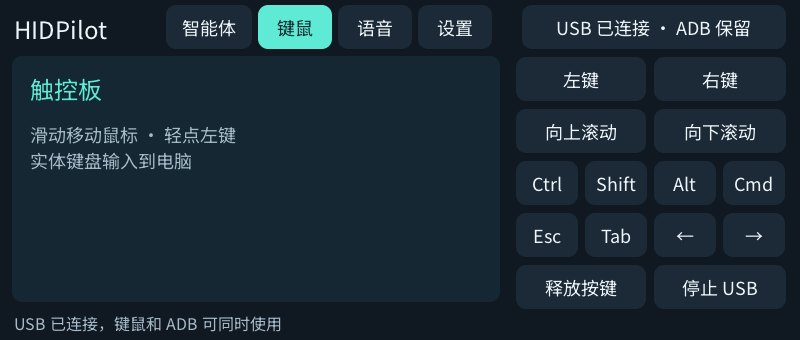
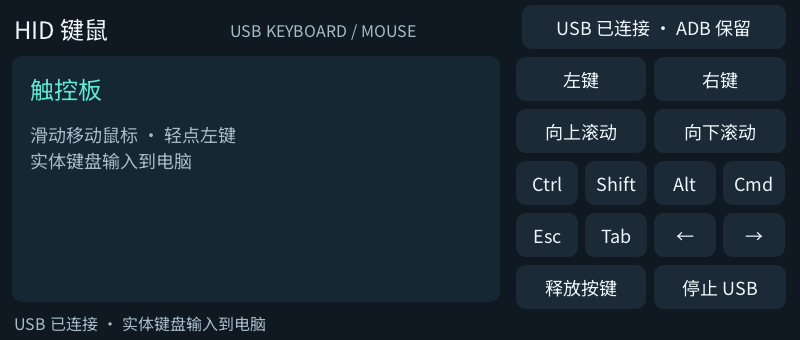
Document on-device HID and MoonPilot verification with screenshots

Changed region(s): [[0.2188, 0.0, 0.5938, 0.1471], [0.125, 0.9118, 0.375, 0.9706], [0.0625, 0.0588, 0.1562, 0.1176]]

diff --git a/docs/2026-09-27-moonpilot-qa.md b/docs/2026-09-27-moonpilot-qa.md
@@ -22,9 +22,19 @@
 ## 待实测和限制
 
 - 用户选择先开发，尚无 Sunshine 主机 IP。真实主机的 PIN 配对、串流、远程键鼠和“画面 → 模型 → 操作 → 新画面”闭环没有通过验收。
-- 新应用安装后、进一步进入 MoonPilot 前 USB 从主机列表消失；暂无法确认断线原因。随后完成了未配置设备的初始提示修正和端口错误提示，已重新编译，尚待补装。应用内截图、配置迁移、实际内存占用和 USB 新界面开关暂未实测。本次不把断线归因于休眠或程序崩溃。
-- 之前 HID 功能的完整主机输入证据见 [0.1.0 验证](2026-09-27-hidpilot-qa.md)；本次保留同一 USB 实现，但不将旧界面验收冒充新界面实测。
+- 初次安装后 USB 曾断开；用户唤醒后已完成下方补装与界面验证。恢复日志有系统 resume 记录，没有此次重新开机证据；仅凭这些记录不能确定最初断线的全部原因。
+- 之前 HID 功能的完整主机输入证据见 [0.1.0 验证](2026-09-27-hidpilot-qa.md)；本次补验新界面的 USB 开关、ADB 共存与退出恢复，未再次向电脑发送鼠标／文字。
 - 本轮未连接实际模型服务。原 LocalAI TTS 的 CUDA/NVML 服务故障没有在此次修复；接口 fixture 成功不代表服务器播报可用。
 - 词典仅接收视频，电脑保留声音。只支持手动填写 IP、现代 Sunshine / GameStream 和 H.264；没有发现服务、拖拽或多显示器布局。
 
-私有测试输出位于忽略的 `.build/moonpilot-qa/`；设备临时文件位于 `/storage/apps/data/moonpilot-qa/`，连接恢复后清理。临时菜单通过进程环境 `C1L_CONFIG` 指定，未改正常 `launcher/apps.txt`；退出测试 launcher 后常规入口即加载全量菜单。
+私有测试输出位于忽略的 `.build/moonpilot-qa/`；设备临时文件使用 `/storage/apps/data/moonpilot-qa/`，验收结束后清理。临时菜单通过进程环境 `C1L_CONFIG` 指定，未改正常 `launcher/apps.txt`；退出测试 launcher 后常规入口即加载全量菜单。
+
+## 连接恢复后的补验
+
+- 已补装首次启动提示、端口错误提示的最终代码。MoonPilot 主机页和未连接状态的操作页已真机截图；没有把静态页面当作串流验收。
+- 第一次打开后，MoonPilot 配置与旧 HIDPilot 私有设置逐字节相同，权限为 0600。随后分别在 URL、模型名字段输入再退格并保存，比较四组服务和播报设置，内容全部未变。旧文件保留，测试没有写入主机地址。
+- 用设备真实支持的 event0 字母／Shift 组合、event1 退格／返回事件检查主机字段：IP 输入 `hi`，转焦点到端口并退格，IP 保持不变；返回取消焦点，没有误删。清空测试内容、恢复默认端口 47989。
+- MoonPilot 空闲主机页 RSS 3144 kB，HID 已连接界面 RSS 1920 kB；前者没有摄像头或 HID 描述符。该数字不包含未来串流解码子进程和模型请求峰值。
+- HID GUI 点连接后，`ffs.hidpilot`、`ffs.adb`、`mtp.gs0` 共存，ADB shell 正常。按电源退出，状态回到 OFF，HID 接口移除，ADB / MTP 恢复，前台返回 launcher。
+
+最终激活 `/storage/apps/releases/20260927-131257-69e5e971`，设备 MoonPilot / HID 可执行文件 SHA-256 与最终本地包一致；退出两项专用测试菜单后，通过正常 `launcher/apps.txt` 重启，恢复 19 个本地入口（公开目录 18 项）。USB 状态 OFF，仅 ADB / MTP；20 分钟及息屏后 15 秒参数保持不变。设备测试目录已清理，证书和私有设置保留。

diff --git a/docs/screenshots/README.md b/docs/screenshots/README.md
@@ -38,4 +38,4 @@
 2026-09-27 新增 `hidpilot.png` 和 `hidpilot-voice.png`，通过设备 framebuffer 当前扫描页采集，旋转为 800×340。键鼠页为真实 HID 会话界面；对话页文字由真实 LocalAI 模型返回，输入由测试工具经设备输入事件送入。没有录制、拼接或伪造语音识别对话，也不表示当前 TTS 服务已验收。摄像头拍到私人环境的预览不上传公开仓库。
 
 
-2026-09-27 拆分 HIDPilot 后新增 `moonpilot-launcher.png`：已安装两个新应用后，从真实设备 framebuffer 采集专用的两项测试菜单，仅旋转为 800×340。它不是完整应用列表，也不是已连接 Sunshine 的截图。原 `hidpilot.png` / `hidpilot-voice.png` 保留为 0.1.0 历史界面；0.2.0 的 AI 和语音已迁入 MoonPilot。应用内新版截图因 USB 断开暂未采集。
+2026-09-27 拆分 HIDPilot 后新增 `moonpilot-launcher.png`：已安装两个新应用后，从真实设备 framebuffer 采集专用的两项测试菜单，仅旋转为 800×340。它不是完整应用列表，也不是已连接 Sunshine 的截图。连接恢复后，`hidpilot.png` 更新为 0.2.0 的真实 USB 已连接状态；新增 `moonpilot.png` 主机页、`moonpilot-desktop.png` 未连接时的操作页，均读取真机 framebuffer。`hidpilot-voice.png` 仅保留为 0.1.0 历史对话截图；AI 和语音现已迁入 MoonPilot。尚无真实 Sunshine 串流截图。

diff --git a/README.md b/README.md
@@ -89,7 +89,7 @@ apps/
   </tr>
   <tr>
     <td><strong>HIDPilot 键鼠</strong><br><a href="docs/screenshots/hidpilot.png"><img src="docs/screenshots/hidpilot.png" alt="HIDPilot 真机触控板、实体键盘修饰键和 USB 状态" width="400"></a><br>USB HID 与 ADB 共存；<a href="hidpilot/README.md">使用说明</a>。</td>
-    <td><strong>MoonPilot AI</strong><br><a href="docs/screenshots/moonpilot-launcher.png"><img src="docs/screenshots/moonpilot-launcher.png" alt="真机专用测试菜单中的 HID 键鼠和 MoonPilot 两个独立入口" width="400"></a><br>两个独立入口的真机测试菜单；真实 Sunshine 串流待接入验证。</td>
+    <td><strong>MoonPilot AI</strong><br><a href="docs/screenshots/moonpilot.png"><img src="docs/screenshots/moonpilot.png" alt="MoonPilot 真机 Sunshine 主机配置界面" width="400"></a><br>主机设置、PIN 配对和模型接口；真实 Sunshine 串流待接入验证。</td>
   </tr>
 </table>
 

diff --git a/moonpilot/README.md b/moonpilot/README.md
@@ -4,7 +4,9 @@ C1 Max 上基于 Moonlight / Sunshine 的远程桌面智能体。通过网络接
 
 **当前为开发预览版**：配对协议测试、MIPS 构建和真机 H.264 解码通过；尚未连接用户的 Sunshine 主机，真实串流、延迟、远程输入及 AI 完整闭环仍待验证。此版本不能据此视为已完成 Moonlight 兼容性验收。
 
-![两个独立入口的真机测试菜单](../docs/screenshots/moonpilot-launcher.png)
+| Sunshine 主机设置 | 远程操作页（尚未连接主机） |
+| --- | --- |
+| ![MoonPilot 真机主机配置](../docs/screenshots/moonpilot.png) | ![MoonPilot 真机操作页](../docs/screenshots/moonpilot-desktop.png) |
 
 ## 连接电脑
 

diff --git a/hidpilot/README.md b/hidpilot/README.md
@@ -11,7 +11,7 @@ C1 Max 的 USB 键盘、鼠标和触控板。0.2.0 起只负责手动输入；AI
 
 电脑无需额外控制软件，使用系统 HID 驱动。此应用不打开摄像头、不请求模型，也不会自动录音。
 
-![拆分后的两个入口（真机专用测试菜单）](../docs/screenshots/moonpilot-launcher.png)
+![HID 键鼠真机界面，USB 与 ADB 同时连接](../docs/screenshots/hidpilot.png)
 
 ## USB 实现
 
